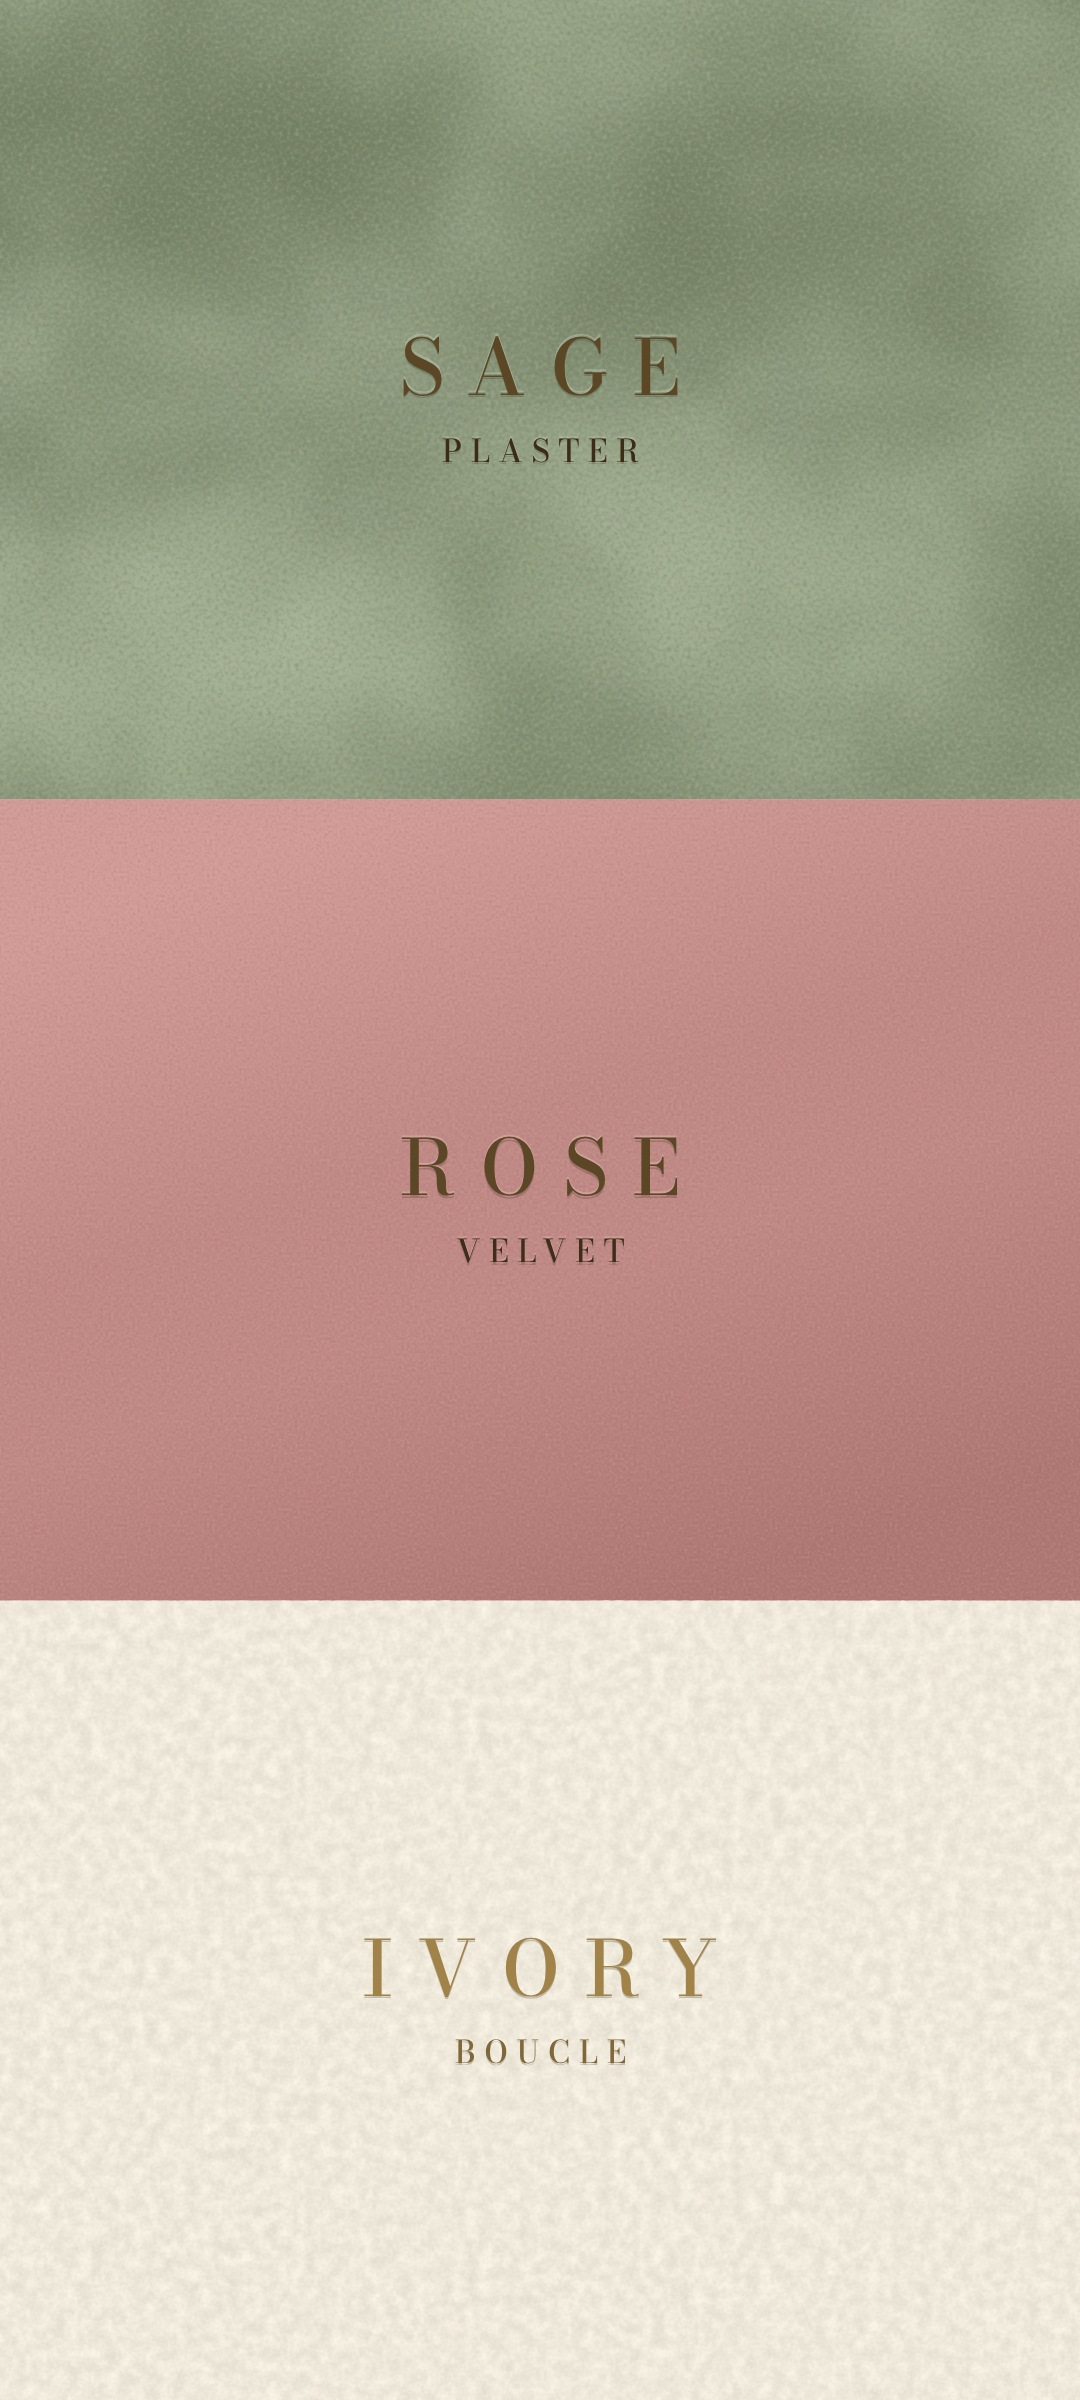
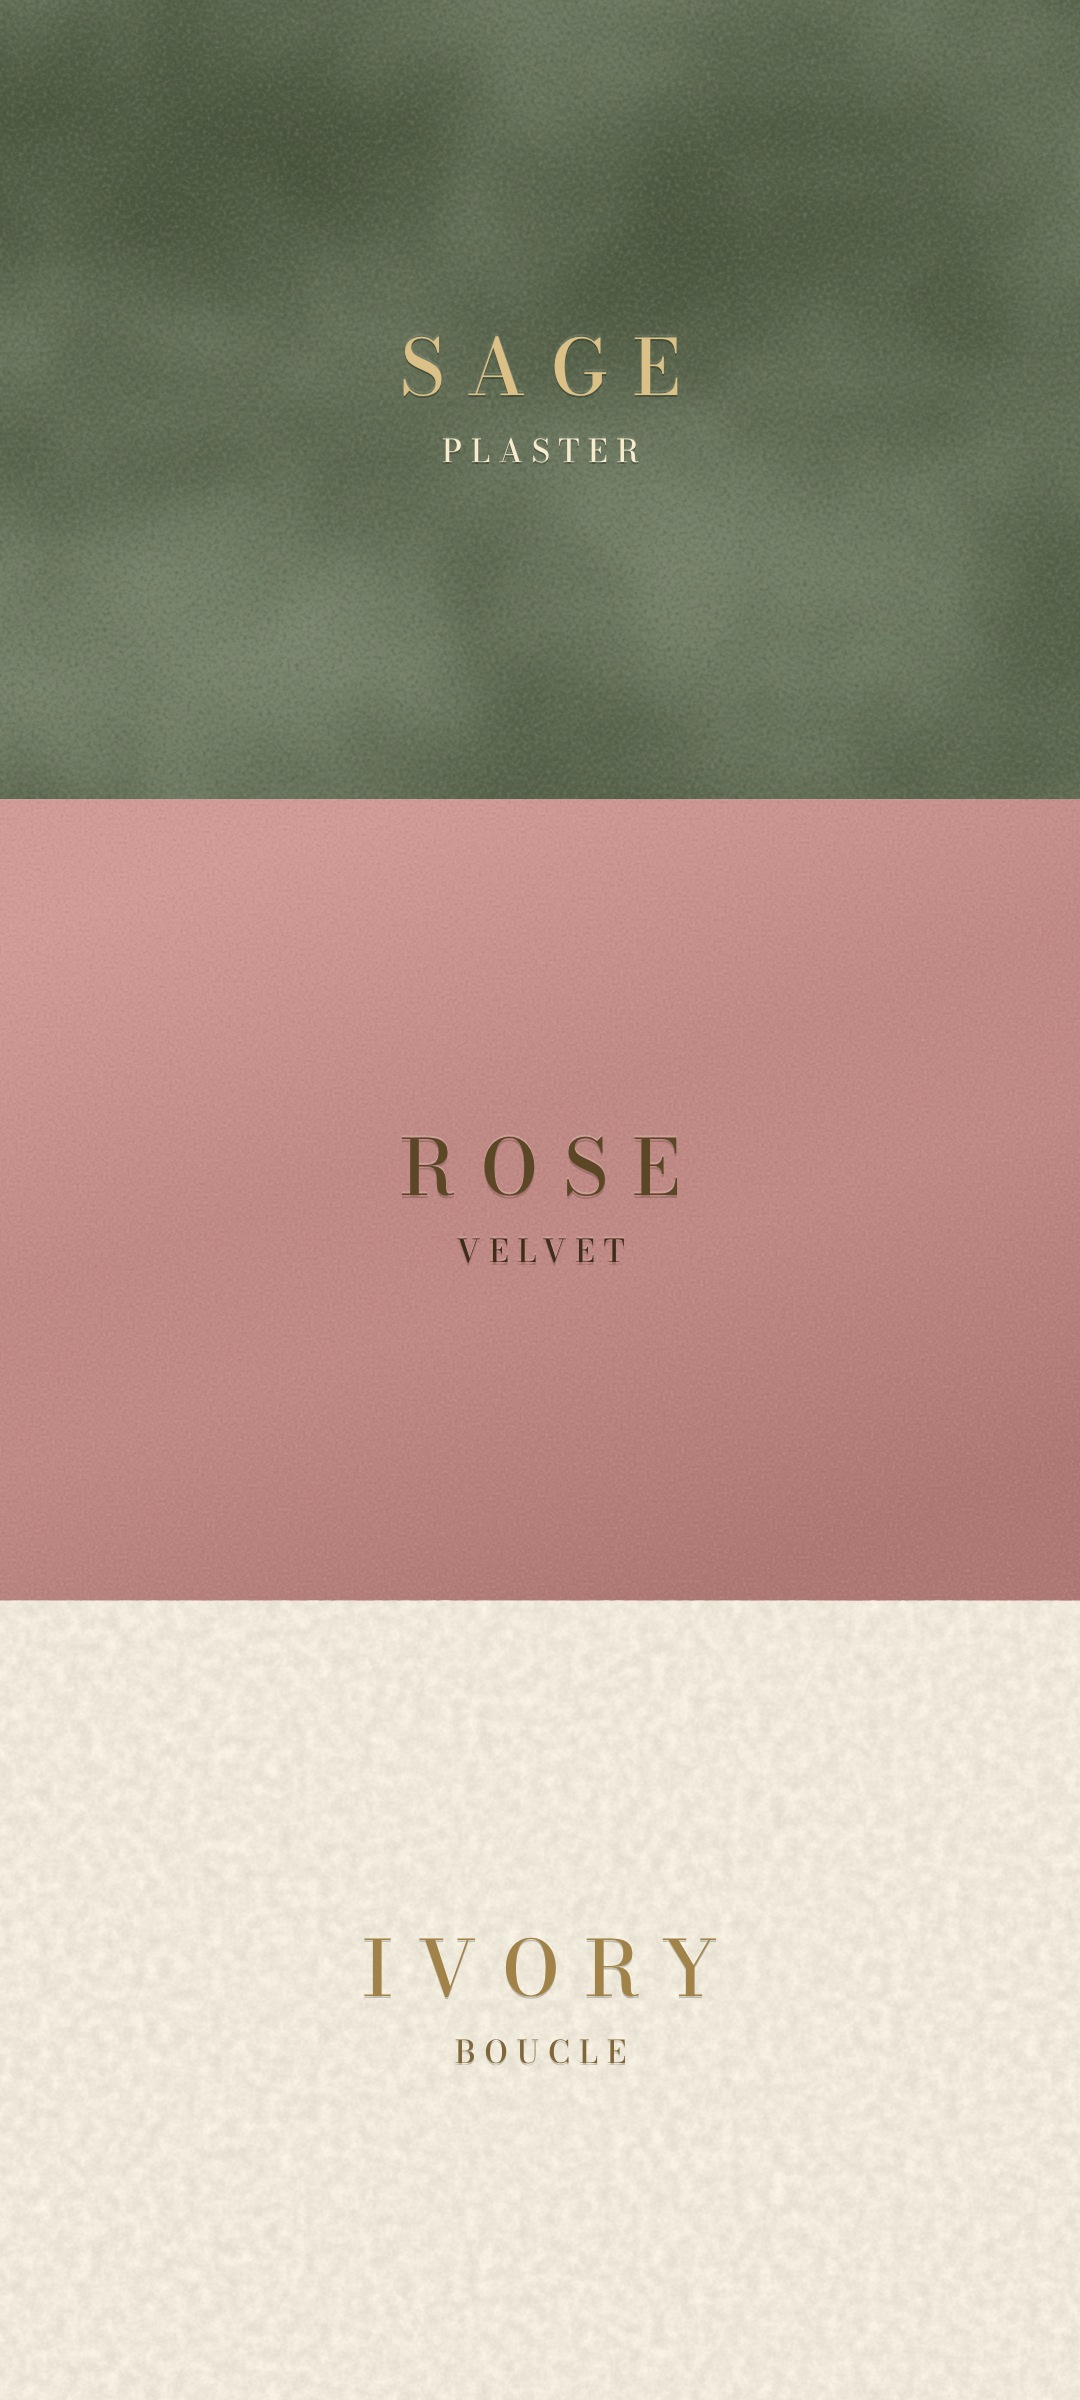
Architectural Color Studio: trio prompt v0.6 (light suits the trio, architecture suits the room) and a deeper sage
Claude-Session: https://claude.ai/code/session_011PmjZhgQPNmW2HDv3Nk8zx

diff --git a/studio/notebook/NOTEBOOK.md b/studio/notebook/NOTEBOOK.md
@@ -2,7 +2,7 @@
 title: Notebook
 updated: 2026-11-16
 status: working notes, not final
-prompt_version: 0.5
+prompt_version: 0.6
 ---
 
 # What the studio is learning about making images
@@ -22,9 +22,29 @@ Seven rooms the owner loves, mostly posts pairing a three-colour swatch card wit
 
 The references are other people's posts, so they are kept out of the site; only these notes are recorded.
 
-## The working prompt for trios (v0.5)
+## The working prompt for trios (v0.6)
 
-Open a trio from **Palettes → Trios**, tap **Download card**, start a new chat, attach the card, then paste (each trio page has this with a Copy button). Before 16 November the cards were screenshots and their textures shifted some colours (Sage, Cognac and Ink most); attempts from then on use the measured download.
+Open a trio from **Palettes → Trios**, tap **Download card**, start a new chat, attach the card, then paste the prompt from that trio's page (Copy button). v0.6 changes two things from v0.5, each answering a lesson: **architecture suits the room** (lesson 14) and **light suits the trio** (lesson 13). Each trio page shows its own version; this one is for a cool or green hero such as Sage, Rose, Ivory:
+
+```
+Design and photograph the room this palette card describes (image attached).
+
+Use the three colours as their finishes: the top colour on the walls and the built-in joinery, the middle colour for the main upholstered pieces, and the bottom colour as the soft neutral for the sofa or bed, curtains and ceiling.
+
+House style: dark wood floors, brass lighting (wall sconces, a picture light or a chandelier), classic architecture that suits the room (panelled walls and a tall window for a bedroom; arched built-ins with softly lit shelves for a library, study or living room), and one centred focal wall. Restrained, timeless luxury: few accessories, nothing over-matched.
+
+Light: soft late-afternoon daylight from a tall window as the main light, with a few lamps on low. The walls must match the colour on the card, and whites must stay white.
+
+A photorealistic photograph for a high-end interiors magazine, shot straight on. Vertical 4:5. No people or text.
+```
+
+For deep, warm heroes (Aubergine, Ink) the light line stays as in v0.5: *"Light: warm, golden lamplight with soft daylight from a tall window."*
+
+## The previous prompt for trios (v0.5)
+
+Used for Sage, Rose, Ivory attempts 1 and 2.
+
+Before 16 November the cards were screenshots and their textures shifted some colours (Sage, Cognac and Ink most); attempts from then on use the measured download.
 
 ```
 Design and photograph the room this palette card describes (image attached).
@@ -104,12 +124,12 @@ If an image is far off, start a new chat instead of correcting it.
 
 ## To try next (proposed after Sage, Rose, Ivory)
 
-Not yet tested. Each change answers one lesson above; try them one at a time so the result can be traced.
+Each change answers one lesson above. Three are now in v0.6 and the trio data, and the next Sage, Rose, Ivory run tests them together against attempt 1.
 
-- **Light by trio** (lesson 13). For cool or pale heroes: *"soft late-afternoon daylight from a tall window as the main light, a few lamps on low; the walls must match the card colour and whites must stay white."* Keep golden lamplight for deep, warm heroes.
-- **Architecture suits the room** (lesson 14). Replace the built-ins line with *"classic architecture that suits the room: panelled walls and a tall window for a bedroom; arched built-ins for a library or living room."*
+- **Done in v0.6 — Light by trio** (lesson 13). For cool or pale heroes: *"soft late-afternoon daylight from a tall window as the main light, a few lamps on low; the walls must match the card colour and whites must stay white."* Keep golden lamplight for deep, warm heroes.
+- **Done in v0.6 — Architecture suits the room** (lesson 14). Replace the built-ins line with *"classic architecture that suits the room: panelled walls and a tall window for a bedroom; arched built-ins for a library or living room."*
 - **A better follow-up than "more luxurious"** (lesson 15): *"Make it feel like a room by a top interior designer: more intentional and restrained, real craft, fewer things. Keep the colours exactly as the card."*
-- **A deeper Sage, Rose, Ivory** (lesson 16): the same trio with the sage taken down to about lightness 45, so the walls are clearly darker than the rose bed. Needs the owner's yes before the trio changes.
+- **Done — A deeper Sage, Rose, Ivory** (lesson 16): the sage is now `#646F58` (lightness 45, was `#8E9A7E` at 62), so the walls sit clearly darker than the rose bed. Owner agreed 2026-11-16.
 - **Attach the downloaded card** (1080 × 2400) rather than screenshots of the page, so the colour list and page around it don't compete with the card.
 
 ## Retired

diff --git a/STATE.md b/STATE.md
@@ -132,3 +132,4 @@ Challenge the design, not the wording. In particular:
 - **2026-11-16 — Audit.** Full review by the owner's other Claude account at commit `4d682ff`; nothing in the product changed. Every page tested at phone, iPad and desktop width (no errors, no sideways scroll, no broken links). Measured: Trio card swatches drift from their stated colours (Sage ΔE00 7.3, Cognac 6.4, Ink 4.1); the nine Notebook images all carry a warm cast and the "good" ones hold no more of the palette than the misses; 15 of 29 studio palettes fall below the 85 score if a material moves halfway within its own range; 178 of 348 Wada combinations would be refused by the studio palette rules. Findings, recommendations and scripts: `docs/AUDIT-2026-11-16.md`, `research/audit-2026-11-16/`. Not published (no site change).
 - **2026-11-16 — Swatch card fixed (audit item 4).** The card is now one SVG (`site/card.mjs`) shown on the site and rendered by `npm run cards` (`scripts/cards.mjs`) to a 1080 × 2400 JPEG with a **Download card** button on each trio page; no more screenshots. Textures are balanced lighter/darker pairs, so each swatch averages to its value: measured on the delivered files, every swatch is within 0.94 ΔE00 (before: Sage 7.3, Cognac 6.4, Ink 4.1). Lettering is gold foil adjusted per swatch to at least 3:1 for names and 4.5:1 for finish labels (before: Cognac 2.2:1, Bone 2.8:1). Typeface Bodoni Moda (OFL) ships with the site (`site/fonts/`). The cards script refuses a card that drifts more than 1.0, loses its texture or is illegible; the build refuses cards that don't match the current data. Guide v0.9 §7 and §10, Notebook and trio description updated. Checked at phone, iPad and desktop width; download tested. Earlier Notebook attempts used the old screenshotted cards.
 - **2026-11-16 — First trio attempts logged.** Owner made Sage, Rose, Ivory in ChatGPT from screenshots of the trio page and the v0.5 prompt. Attempt 1 *closer*: right placement, but bland; golden light turned the sage olive-khaki and the ivory beige (measured), and the house style put library built-ins in a bedroom. Attempt 2 ("make it look more luxurious") *miss*: generic luxury tropes, obviously AI. Notebook lessons 13–16 (light should suit the trio; a house-style list gets built literally; "luxurious" summons props; Sage and Rose share a lightness, so the trio has no depth) and a "To try next" list. Prompt v0.5 unchanged on the site until the owner picks what to test.
+- **2026-11-16 — Prompt v0.6 and a deeper sage.** Owner chose three of the Notebook's next steps. Trio prompt v0.6 (built per trio in `build.mjs`): architecture suits the room (panelling and a tall window for a bedroom; built-ins only for a library, study or living room) and light suits the trio (new `light` field in `trios.json`: `daylight` for Sage, Rose, Ivory; `golden` for the other two). Sage deepened from `#8E9A7E` (L 62) to `#646F58` (L 45); old value kept as `formerly`. Card re-rendered and measured (all swatches within 0.8); the foil may now go paler than pale gold when needed (the new sage's finish label needed it). Guide v0.10, Notebook v0.6. Next: owner re-runs Sage, Rose, Ivory with the downloaded card.

diff --git a/studio/guide/GUIDE.md b/studio/guide/GUIDE.md
@@ -1,6 +1,6 @@
 ---
 title: The Guide
-version: 0.9
+version: 0.10
 updated: 2026-11-16
 status: draft, awaiting owner approval
 ---
@@ -111,7 +111,7 @@ Rules 1, 2, 4 and 5 can cost points; the rest of the score rewards undertone aff
 
 ### Trios
 
-A **trio** is the studio's newer format, taken from the owner's reference posts: three colours, each a finish. The **hero** colour covers the walls and the built-in joinery and may be deep and saturated; the **upholstery** colour is leather or velvet; the **neutral** is the soft colour for the sofa or bed, curtains and ceiling. Every trio shares one house style: dark wood floors, brass lighting, panelling or arched built-ins, one centred focal wall, warm lamplight. The build checks that hero and neutral are at least 25 apart in lightness and that every pair differs by at least 20. Each trio has a swatch card, downloaded from its page as an image (1080 × 2400), given to the image maker and placed beside the finished room.
+A **trio** is the studio's newer format, taken from the owner's reference posts: three colours, each a finish. The **hero** colour covers the walls and the built-in joinery and may be deep and saturated; the **upholstery** colour is leather or velvet; the **neutral** is the soft colour for the sofa or bed, curtains and ceiling. Every trio shares one house style: dark wood floors, brass lighting, classic architecture that suits the room (panelling and a tall window for a bedroom, arched built-ins for a library or living room), one centred focal wall. Light suits the trio: warm lamplight for deep, warm heroes; soft daylight for cool or green ones, because golden light turns them olive (Notebook lesson 13). The build checks that hero and neutral are at least 25 apart in lightness and that every pair differs by at least 20. Each trio has a swatch card, downloaded from its page as an image (1080 × 2400), given to the image maker and placed beside the finished room.
 
 ## 8. The sit-down: everything before the image
 
